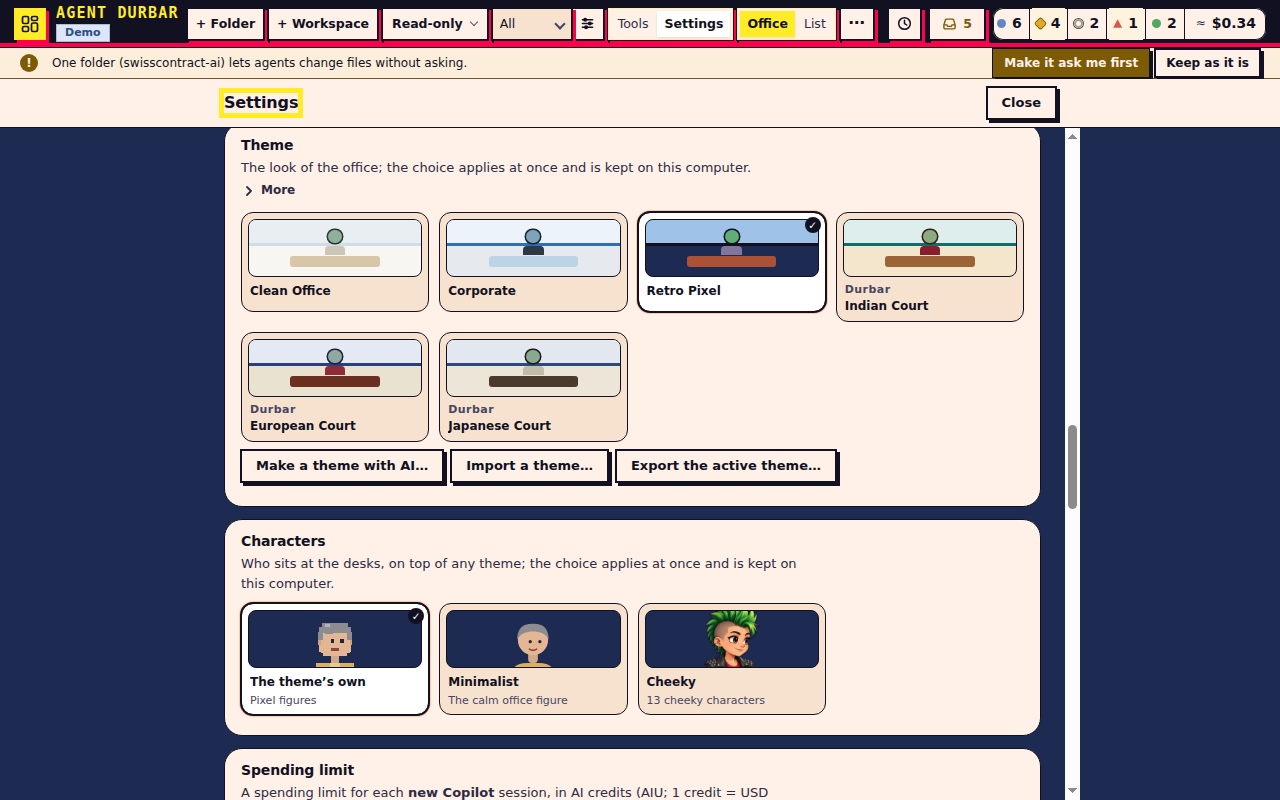
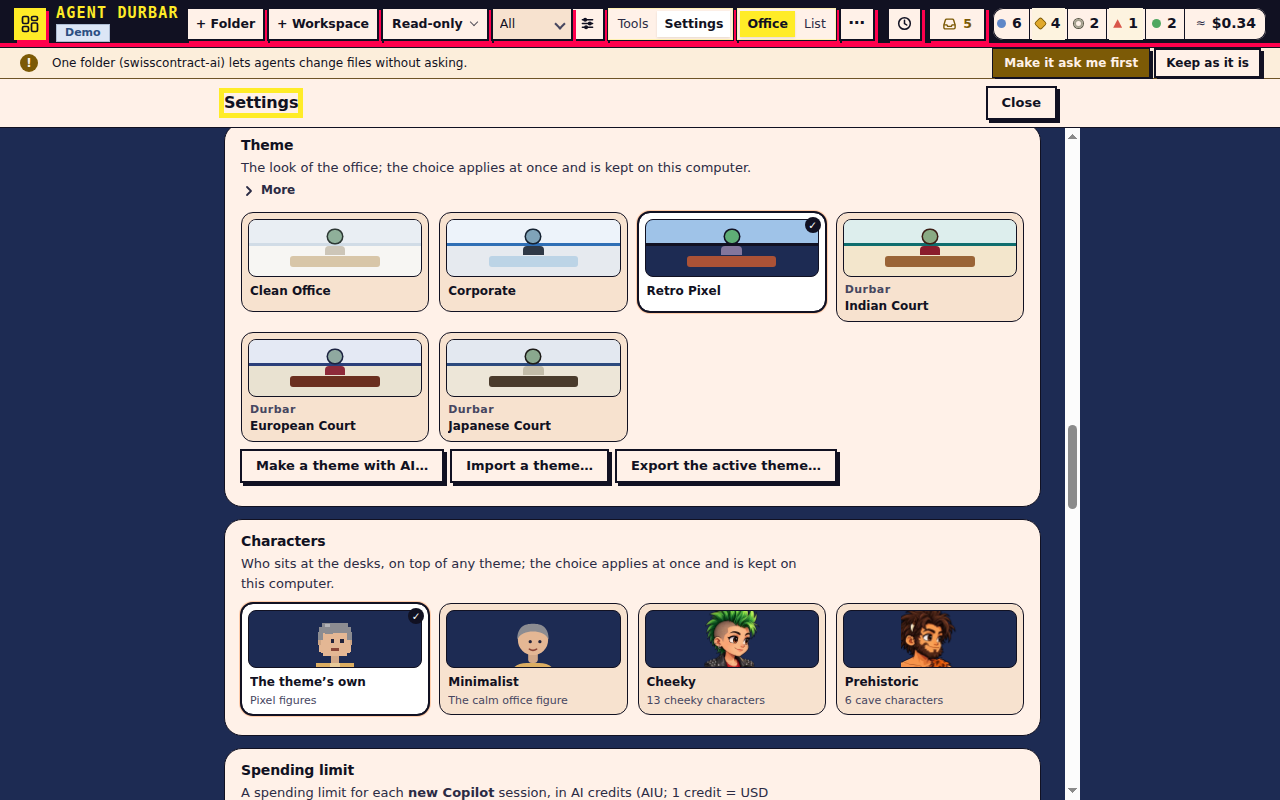
077 FR-072: check-crew and check-characters cover the Prehistoric Crew; README, agent notes and retaken Settings screenshots

Changed region(s): [[0.6562, 0.75, 0.8125, 0.9062]]

diff --git a/scripts/check-crew.js b/scripts/check-crew.js
@@ -13,8 +13,13 @@
  * Then FR-055: a copy of dist/ with one picture removed. The desks of that character draw the plain figure (no <image>), the others
  * keep their pictures, and nothing is broken.
  *
+ * Spec 077 FR-072 (issue #815): the same checks run for the Prehistoric crew (Characters = Prehistoric) with its 6 characters: the desks, poses,
+ * sharpness, faces, glow, idle, the bed slot at both sizes and the missing-picture fallback. The steps that do not depend on the crew (the
+ * review fixes of PR 621, the missing module) run once, with Cheeky.
+ *
  *   npm run check:ui -- --only check-crew            (builds first)
  *   CREW_THEME=<theme id>         the theme under the crew (default clean-office)
+ *   CREW_CHARS=<cheeky|prehistoric>  run one crew only (default: both)
  *   SHOTS_OUT=<folder>            screenshots (default: crew-shots in the OS temp folder)
  */
 const fs = require('fs');
@@ -25,7 +30,8 @@ const { helpers, jsLiteral } = require('./driver-helpers');
 
 /* spec 077 FR-064..FR-066: Cheeky is a Characters choice, picked on top of a theme */
 const THEME_ID = process.env.CREW_THEME || 'clean-office';
-const CHARS = 'cheeky';
+let CHARS = 'cheeky'; // the crew being checked (see RUNS)
+const RUNS = process.env.CREW_CHARS ? [[process.env.CREW_CHARS, true]] : [['cheeky', true], ['prehistoric', false]]; // [Characters value, whole check (the crew-independent steps too)]
 /* FR-014 zones in stage units: [x0, y0, x1, y1] */
 const ZONES = { 'monitor and halo': [101, 22, 187, 88], 'bubble and badge corner': [16, 3, 61, 34], 'cup zone': [96, 66, 114, 87] };
 /* FR-060: the screen's frame starts here; the portrait box ends here, so the status colour is never under it */
@@ -140,11 +146,12 @@ function glowZoom() {
 const naturals = (files) => `Promise.all(${jsLiteral(files)}.map(f=>new Promise(r=>{const i=new Image();i.onload=()=>r([f,i.naturalWidth,i.naturalHeight]);i.onerror=()=>r([f,0,0]);i.src=f;})))`;
 const hit = (a, b) => a[0] < b[2] && a[2] > b[0] && a[1] < b[3] && a[3] > b[1];
 
-module.exports = async (ctx) => {
+async function runCrew(ctx, full) {
   const H = helpers(ctx);
   const out = process.env.SHOTS_OUT || path.join(os.tmpdir(), 'crew-shots');
   fs.mkdirSync(out, { recursive: true });
   const C = require('../src/renderer/crew.js');
+  const CREW_IDS = C.idsFor(CHARS), PIC_RE = /crew\/art\/(?:prehistoric-)?([\w-]+)-(working|waiting|resting)\.webp/;
   /* one Settings pick: a theme (kind 'theme', #thList) or a Characters value (kind 'characters', #chList) */
   const pickIn = async (kind, id) => {
     const list = kind === 'theme' ? '#thList' : '#chList', sel = `${list} [data-${kind}="${id}"]`;
@@ -165,7 +172,7 @@ module.exports = async (ctx) => {
   const useCrew = async () => {
     if (await H.js(`window.THEME.current().id`) !== THEME_ID) await pick(THEME_ID);
     await pickChars(CHARS);
-    assert.strictEqual(await H.js(`window.THEME.sceneKit()`), 'crew', `${THEME_ID}: Characters = Cheeky draws the crew kit`);
+    assert.strictEqual(await H.js(`window.THEME.sceneKit()`), 'crew', `${THEME_ID}: Characters = ${CHARS} draws the crew kit`);
   };
   console.log(`[crew] theme ${THEME_ID}, characters ${CHARS}`);
 
@@ -175,7 +182,7 @@ module.exports = async (ctx) => {
     const uses = {};
     for (const f of list) {
       if (!f.href) continue; // the plain figure (fallback) has no picture
-      const m = /crew\/art\/([\w-]+)-(working|waiting|resting)\.webp/.exec(f.href);
+      const m = PIC_RE.exec(f.href);
       assert.ok(m, `${tag}: ${f.use}: a crew picture (${f.href})`);
       const [id, pose] = [m[1], m[2]];
       const fb = C.faceBox(id, pose); // stage units
@@ -217,7 +224,7 @@ module.exports = async (ctx) => {
     const seats = list.filter((f) => f.use === 'seat' && f.href).map((f) => ({ seat: [Math.round(f.clip[2] - f.clip[0]), Math.round(f.clip[3] - f.clip[1])], badge: (f.covers.find(([n]) => n === 'chat badge') || [, null])[1] }));
     console.log(`[crew] ${tag} seats`, JSON.stringify(seats.map((s) => ({ seat: s.seat, badge: s.badge && [Math.round(s.badge[2] - s.badge[0]), Math.round(s.badge[3] - s.badge[1])] }))));
   };
-  const sizes = async () => Object.fromEntries((await H.js(naturals(C.files()))).map(([f, w, h]) => [f, [w, h]]));
+  const sizes = async () => Object.fromEntries((await H.js(naturals(C.files(CREW_IDS)))).map(([f, w, h]) => [f, [w, h]]));
   const sharpOk = (tag, img, nat) => {
     assert.ok(nat && nat[0] > 0, `${tag}: ${img.href} loads`);
     assert.ok(nat[0] >= 2 * img.shown[0] - 0.5 && nat[1] >= 2 * img.shown[1] - 0.5, `${tag}: ${img.href} is shown at ${img.shown.map(Math.round)} px, natural ${nat} is not at least 2x (FR-051)`);
@@ -240,6 +247,7 @@ module.exports = async (ctx) => {
       assert.strictEqual(sc.images.length, 1, `${tag}: scene ${i} (${sc.st}) draws exactly one portrait`);
       const im = sc.images[0], id = (/\|crew\|([\w-]+)/.exec(sc.sig) || [])[1];
       seen.add(id);
+      assert.ok(CREW_IDS.includes(id), `${tag}: scene ${i} wears ${id}, a character of the ${CHARS} crew`);
       assert.strictEqual(im.href, C.file(id, C.poseFor(sc.st)), `${tag}: scene ${i} (${sc.st}) shows the ${C.poseFor(sc.st)} pose of ${id}`);
       assert.deepStrictEqual([im.x, im.y, im.w, im.h], [C.BOX.x, C.BOX.y, C.BOX.w, C.BOX.h], `${tag}: scene ${i}: the portrait's fixed box`);
       const box = [im.x, im.y, im.x + im.w, im.y + im.h];
@@ -248,7 +256,7 @@ module.exports = async (ctx) => {
       sharpOk(`${tag} scene ${i}`, im, nat[im.href]);
     }
     await faceChecks(tag);
-    assert.ok(seen.size === C.IDS.length, `${tag}: all ${C.IDS.length} characters on screen with 15 agents (least-used pick) (${[...seen]})`);
+    assert.ok(seen.size === CREW_IDS.length, `${tag}: all ${CREW_IDS.length} ${CHARS} characters on screen with 15 agents (least-used pick) (${[...seen]})`);
     for (const [kind, list] of [['walker', s.walkers], ['chip', s.chips], ['lounge figure', s.lounge]]) for (const [i, imgs] of list.entries()) {
       assert.strictEqual(imgs.length, 1, `${tag}: ${kind} ${i} draws the portrait`);
       sharpOk(`${tag} ${kind} ${i}`, imgs[0], nat[imgs[0].href]);
@@ -257,7 +265,7 @@ module.exports = async (ctx) => {
     console.log(`[crew] ${tag}`, JSON.stringify({ scenes: mains.length, characters: [...seen], walkers: s.walkers.length, chips: s.chips.length, lounge: s.lounge.length }));
     await H.clearToasts();
     await ctx.sleep(200);
-    await ctx.shot(path.join(out, `crew-office-${THEME_ID}-${tag}.png`));
+    await ctx.shot(path.join(out, `crew-office-${CHARS}-${THEME_ID}-${tag}.png`));
     // FR-061: an idle desk's portrait is full colour; its furniture keeps the dim
     const idle = await H.js(`(${idleOpacity.toString()})()`);
     assert.ok(idle.length >= 1, `${tag}: an idle desk or helper is on screen (${idle.length})`);
@@ -270,7 +278,7 @@ module.exports = async (ctx) => {
     const gz = await H.js(`(${glowZoom.toString()})()`);
     assert.ok(gz.length >= 1, `${tag}: a desk to measure the glow on`);
     for (const g of gz) {
-      const m = /crew\/art\/([\w-]+)-(working|waiting|resting)\.webp/.exec(g.href), fb = C.faceBox(m[1], m[2]), [vx, vy] = g.vb;
+      const m = PIC_RE.exec(g.href), fb = C.faceBox(m[1], m[2]), [vx, vy] = g.vb;
       const z = (p, o) => o + (p - o) * g.e, X = (u) => z(u, 74), Y = (u) => z(u, 99); // the zoom about the chair, in stage units
       const [u0, v0, u1, v1] = [X(fb[0]), Y(fb[1]), X(fb[0] + fb[2]), Y(fb[1] + fb[3])];
       const R = g.svg, sc = Math.min((R[2] - R[0]) / g.vb[2], (R[3] - R[1]) / g.vb[3]), ox = R[0] + ((R[2] - R[0]) - g.vb[2] * sc) / 2, oy = R[1] + ((R[3] - R[1]) - g.vb[3] * sc) / 2;
@@ -303,7 +311,7 @@ module.exports = async (ctx) => {
     const biggest = Math.max(...imgs.map((i) => i.shown[0]));
     console.log('[crew] 1920x1080 grown desks: largest shown width', Math.round(biggest), 'px, natural', C.BOX.w * C.PX_PER_UNIT);
     for (const im of imgs) sharpOk('1920x1080 grown', im, nat[im.href]);
-    await ctx.shot(path.join(out, 'crew-office-1920x1080-grown.png'));
+    await ctx.shot(path.join(out, `crew-office-${CHARS}-1920x1080-grown.png`));
   }
 
   // issue 871 (FR-071): a sleeping crew character in the bed slot reads like the couch seat, at both sizes. One agent on the couch and a lone sleeper.
@@ -322,7 +330,9 @@ module.exports = async (ctx) => {
     await H.js(`(()=>{for(const [id,min] of [['sim-2',2],['sim-3',30]]){window.__durbarSimUi.agents().find(x=>x.id===id).lastEventAt=Date.now()-min*60000;}window.__durbarSimUi.render();})()`);
     assert.ok(await H.until(`!!document.querySelector('#stage .lounge .desk.rest-old.crew-bed')&&!!document.querySelector('#stage .lounge .lg-av svg image')`, 6000), `${tag}: a crew sleeper is in a nap bed`);
     await H.settle();
-    const list = await H.js(`(${sleepers.toString()})()`);
+    // the lounge is laid out again for a moment after the sleepers appear (a fit pass; seen as a flake on Retro Pixel on main too): measure when two reads 300 ms apart agree
+    let list = await H.js(`(${sleepers.toString()})()`);
+    for (let i = 0; i < 20; i++) { await ctx.sleep(300); const next = await H.js(`(${sleepers.toString()})()`); const same = JSON.stringify(next) === JSON.stringify(list); list = next; if (same) break; }
     const lone = list.filter((x) => x.solo);
     assert.ok(lone.length >= 1, `${tag}: a lone sleeper (a bunk with one bed) is on screen (${list.length} sleepers)`);
     for (const x of lone) {
@@ -330,7 +340,7 @@ module.exports = async (ctx) => {
       assert.ok(x.crew && !x.lying && x.href, `${where}: drawn with the crew picture, upright (${JSON.stringify({ crew: x.crew, lying: x.lying, href: x.href })})`);
       assert.ok(inside(x.av, x.slot) && inside(x.slot, x.lounge), `${where}: the figure ${x.av.map(Math.round)} is inside its bed slot ${x.slot.map(Math.round)} and the lounge ${x.lounge.map(Math.round)}`);
       // the face is not cut: the face box of the picture, mapped to the screen, is inside the visible figure
-      const m = /crew\/art\/([\w-]+)-(working|waiting|resting)\.webp/.exec(x.href), fb = C.faceBox(m[1], m[2]), [vx, vy, vw, vh] = x.vb, R = x.svg;
+      const m = PIC_RE.exec(x.href), fb = C.faceBox(m[1], m[2]), [vx, vy, vw, vh] = x.vb, R = x.svg;
       const sc = Math.min((R[2] - R[0]) / vw, (R[3] - R[1]) / vh), ox = R[0] + ((R[2] - R[0]) - vw * sc) / 2, oy = R[1] + ((R[3] - R[1]) - vh * sc) / 2;
       const face = [ox + (fb[0] - vx) * sc, oy + (fb[1] - vy) * sc, ox + (fb[0] + fb[2] - vx) * sc, oy + (fb[1] + fb[3] - vy) * sc];
       assert.ok(inside(face, x.av), `${where}: the face box ${face.map(Math.round)} is inside the visible figure ${x.av.map(Math.round)} (not cut)`);
@@ -348,7 +358,7 @@ module.exports = async (ctx) => {
       console.log(`[crew] ${tag}`, JSON.stringify({ figure: x.av.map(Math.round), bed: x.bed.map(Math.round), name: x.name.map(Math.round) }));
     }
     await H.clearToasts();
-    await ctx.shot(path.join(out, `crew-bed-${THEME_ID}-${w}x${h}.png`));
+    await ctx.shot(path.join(out, `crew-bed-${CHARS}-${THEME_ID}-${w}x${h}.png`));
   }
 
   // FR-055: one picture removed from a copy of dist/: its character is drawn as the plain figure, the others keep their pictures
@@ -358,8 +368,8 @@ module.exports = async (ctx) => {
     try {
       fs.cpSync(path.join(__dirname, '..', 'dist'), path.join(tmp, 'dist'), { recursive: true });
       const index = path.join(tmp, 'dist', 'renderer', 'index.html');
-      const lost = 'punk';
-      fs.rmSync(path.join(tmp, 'dist', 'renderer', 'crew', 'art', `${lost}-waiting.webp`));
+      const lost = CREW_IDS[0];
+      fs.rmSync(path.join(tmp, 'dist', 'renderer', ...C.file(lost, 'waiting').split('/')));
       await H.load({ w: 1440, h: 900, index, query: { theme: THEME_ID, characters: CHARS }, ready: 'fit', settle: false });
       await H.office(15);
       assert.ok(await H.until(`window.THEME.current().id===${jsLiteral(THEME_ID)}&&window.THEME.sceneKit()==='crew'`, 4000), 'the theme and the crew are on');
@@ -373,12 +383,13 @@ module.exports = async (ctx) => {
       for (const sc of mains.filter((x) => !lostScenes.includes(x))) assert.strictEqual(sc.images.length, 1, 'the other characters keep their pictures');
       assert.ok(s.walkers.every((w) => w.length === 1 || w.length === 0), 'figures draw a picture or the plain figure');
       await H.clearToasts();
-      await ctx.shot(path.join(out, 'crew-fallback-1440x900.png'));
+      await ctx.shot(path.join(out, `crew-fallback-${CHARS}-1440x900.png`));
       console.log(`[crew] fallback: ${lostScenes.length} desk(s) of ${lost} drawn as the plain figure`);
     } finally {
       fs.rmSync(tmp, { recursive: true, force: true });
     }
   }
+  if (!full) { console.log(`[crew] ${CHARS}: crew steps passed`); return; }
   // PR 621 review: the characters of a closed session are freed (the main-session ids decide, the array keeps its identity), the last one too
   // the helpers' characters go with their parent; no stale id stays in the map (nor in durbar.crew where it is stored)
   {
@@ -458,6 +469,15 @@ module.exports = async (ctx) => {
     } finally {
       fs.rmSync(tmp, { recursive: true, force: true });
     }
+  }
+  console.log(`[crew] ${CHARS}: checks passed`);
+}
+
+module.exports = async (ctx) => {
+  for (const [chars, full] of RUNS) {
+    CHARS = chars;
+    assert.ok(require('../src/renderer/crew.js').CREWS[chars], `CREW_CHARS ${chars} is a crew`);
+    await runCrew(ctx, full);
   }
   console.log('[crew] checks passed');
   process.exitCode = 0;

diff --git a/scripts/check-characters.js b/scripts/check-characters.js
@@ -3,7 +3,7 @@
  *
  * At 1440x900 and 1280x800, on Retro Pixel and on Corporate (no built-in theme has a dark surface; Retro's floor is dark, so it stands in
  * for "one dark"), everything through Settings (the real path):
- *   - the Characters section is right after Theme, lists The theme's own, Minimalist and Cheeky, each with a preview figure, and names the
+ *   - the Characters section is right after Theme, lists The theme's own, Minimalist, Cheeky and Prehistoric, each with a preview figure, and names the
  *     theme's own figures; it fits the window (no page overflow);
  *   - Cheeky: every desk scene draws the crew kit with a portrait, the theme stays the one picked, the choice is announced;
  *   - a theme switch with Cheeky keeps the crew on the new theme;
@@ -72,18 +72,19 @@ module.exports = async (ctx) => {
     for (const [theme, kit, own] of THEMES) {
       const where = `${tag} ${theme}`;
       await pickTheme(theme);
-      // the section: after Theme, three choices with a preview each, the theme's own named
+      // the section: after Theme, four choices with a preview each, the theme's own named
       assert.ok(await H.until(`(document.querySelector('#chList [data-characters="theme"]')||{}).textContent&&document.querySelector('#chList [data-characters="theme"]').textContent.includes(${jsLiteral(own)})`, 4000), `${where}: The theme's own follows the theme (${own})`);
       const sc = await section();
       assert.ok(sc.afterTheme, `${where}: Characters comes right after Theme`);
-      assert.deepStrictEqual(sc.items.map((i) => i.id), ['theme', 'minimalist', 'cheeky'], `${where}: the three choices in order`);
-      assert.deepStrictEqual(sc.items.map((i) => i.pressed), ['true', 'false', 'false'], `${where}: the default is pressed`);
+      assert.deepStrictEqual(sc.items.map((i) => i.id), ['theme', 'minimalist', 'cheeky', 'prehistoric'], `${where}: the four choices in order`);
+      assert.deepStrictEqual(sc.items.map((i) => i.pressed), ['true', 'false', 'false', 'false'], `${where}: the default is pressed`);
       for (const i of sc.items) {
         assert.ok(i.svg, `${where}: ${i.id} has a preview figure`);
         assert.ok(i.minFont >= 10.5, `${where}: ${i.id}: text is at least 10.5px (${i.minFont})`);
         assert.ok(/^Characters /.test(i.label), `${where}: ${i.id} has a name (${i.label})`);
       }
       assert.ok(sc.items.find((i) => i.id === 'cheeky').pic, `${where}: the Cheeky preview is a portrait`);
+      assert.ok(sc.items.find((i) => i.id === 'prehistoric').pic, `${where}: the Prehistoric preview is a portrait (spec 077 FR-072)`);
       assert.ok(!sc.items.find((i) => i.id === 'minimalist').pic && !sc.items.find((i) => i.id === 'theme').pic, `${where}: the other previews are drawn figures`);
       if (kit === 'pixel') assert.strictEqual(sc.items.find((i) => i.id === 'theme').kit, 'crispEdges', `${where}: The theme's own preview is a pixel figure`);
       assert.ok(sc.pageX && sc.pageY, `${where}: Settings does not overflow the page`);
@@ -107,6 +108,12 @@ module.exports = async (ctx) => {
       assert.strictEqual(await H.js(`window.THEME.themeKit()`), kit, `${where}: the theme's own kit is unchanged`);
       await H.clearToasts();
       await H.shot(path.join(out, `077-characters-cheeky-${theme}-${tag}.png`), { prep: 'calm' }); // the pointer off the desks (no hover pencil), no toast
+      // Prehistoric on top of the theme (FR-072): the crew kit with a Prehistoric picture on every desk
+      await pickChars('prehistoric');
+      await close();
+      assert.ok(await H.until(`(()=>{const sc=[...document.querySelectorAll('#stage .desk[data-id] svg.scene')].filter(s=>s.getClientRects().length);return sc.length>=12&&sc.every(s=>/\\|crew(\\||$)/.test(s.dataset.sig||'')&&s.querySelector('image[href*="crew/art/prehistoric-"]'));})()`, 10000), `${where}: Prehistoric: every desk draws the crew kit with a Prehistoric portrait`);
+      assert.strictEqual(await H.js(`window.THEME.current().id`), theme, `${where}: the theme stays ${theme} under Prehistoric`);
+      assert.strictEqual(await H.js(`document.querySelectorAll('#stage image[href^="crew/art/"]:not([href*="prehistoric-"])').length`), 0, `${where}: no Cheeky picture under Prehistoric`);
       // Minimalist on top of the theme
       await pickChars('minimalist');
       await close();

diff --git a/scripts/check-office-overlap.js b/scripts/check-office-overlap.js
@@ -380,9 +380,9 @@ async function driver(ctx) {
      screen must be the one asked for, or the run fails (it once measured Clean Office for every theme). */
   const userTheme = process.env.OFFICE_USER_THEME ? JSON.parse(fs.readFileSync(process.env.OFFICE_USER_THEME, 'utf8')) : null;
   const wantTheme = userTheme ? userTheme.id : (process.env.OFFICE_THEME || '');
-  /* spec 077 FR-070: OFFICE_CHARACTERS=<value> (theme, minimalist, cheeky) puts who sits at the desks in the address too; checked like the theme */
-  const wantChars = /^(theme|minimalist|cheeky)$/.test(process.env.OFFICE_CHARACTERS || '') ? process.env.OFFICE_CHARACTERS : '';
-  if (process.env.OFFICE_CHARACTERS && !wantChars) throw new Error('OFFICE_CHARACTERS must be theme, minimalist or cheeky');
+  /* spec 077 FR-070: OFFICE_CHARACTERS=<value> (theme, minimalist, cheeky, prehistoric) puts who sits at the desks in the address too; checked like the theme */
+  const wantChars = /^(theme|minimalist|cheeky|prehistoric)$/.test(process.env.OFFICE_CHARACTERS || '') ? process.env.OFFICE_CHARACTERS : '';
+  if (process.env.OFFICE_CHARACTERS && !wantChars) throw new Error('OFFICE_CHARACTERS must be theme, minimalist, cheeky or prehistoric');
   const themeQuery = (wantTheme ? '&theme=' + encodeURIComponent(wantTheme) : '') + (userTheme ? '&usertheme=' + encodeURIComponent(JSON.stringify(userTheme)) : '') + (wantChars ? '&characters=' + wantChars : '');
   if (wantChars) console.log('check:office: characters ' + wantChars);
   let motionShown = false;

diff --git a/README.md b/README.md
@@ -295,7 +295,7 @@ Settings has two choices, both applied live without a restart: **Theme** (colour
 - **Corporate:** a navy bar, white rooms with an accent edge, square corners.
 - **Retro Pixel:** a dark arcade page with pixel characters at CRT desks.
 - **Durbar · Indian / European / Japanese:** three royal courts, each with its own frames, colours and court place names.
-- **Characters** (spec 077): **The theme's own** (the default: the calm office figure in Clean Office, suits in Corporate, pixel people in Retro Pixel, court figures in the three courts), **Minimalist** (the calm office figure on any theme) or **Cheeky** (experimental): a playful desk and 13 young, cheeky, office-safe characters. Each session gets one at random, among those the office uses least, kept per session; a picture shows it working, waiting or resting. If a picture is missing, the plain figure is drawn. Each choice has a small preview in Settings. Cheeky Crew used to be a theme: if you had it, Durbar switches you once to Clean Office with Characters = Cheeky (the characters stay; the warm background and desk colours were the old theme's). Checked on the simulator only.
+- **Characters** (spec 077): **The theme's own** (the default: the calm office figure in Clean Office, suits in Corporate, pixel people in Retro Pixel, court figures in the three courts), **Minimalist** (the calm office figure on any theme), **Cheeky** (experimental): a playful desk and 13 young, cheeky, office-safe characters, or **Prehistoric**: the same desk with 6 friendly cave people. Each session gets one at random, among those the office uses least, kept per session; a picture shows it working, waiting or resting. If a picture is missing, the plain figure is drawn. Each choice has a small preview in Settings. Cheeky Crew used to be a theme: if you had it, Durbar switches you once to Clean Office with Characters = Cheeky (the characters stay; the warm background and desk colours were the old theme's). Checked on the simulator only.
 - **Make a theme with AI:** describe a look ("a pirate ship at night"), or pick one of the ideas, and Claude Code, Codex or Copilot designs a light or dark theme: colours, a style, place names and art for the people and furniture. Durbar keeps only safe values, cleans the art like an imported pack, and checks that text stays readable; the AI gets up to 3 passes to fix what fails. Try it on the whole app before you save it. One theme costs about a cent on Claude (haiku); Copilot spends AI credits from your plan (shown with the result): about 0.25 AI credits per pass on a free plan, checked on 2026-10-20.
 - **Your own themes:** a folder with a `manifest.json` (colours, fonts, corner radii, shadows, the people's clothes and hair colours, a UI style and a scene kit from fixed lists, small SVG art including the desk's cup and laptop, place names), imported and exported in Settings. A theme is data only: no scripts and no CSS. Fonts are installed system fonts from an allow-list (a theme never downloads a font or loads a font file), sizes and spacing stay the app's so the office always fits, SVG art is rebuilt from allowed shapes, a value that is merely unusable falls back to the default and a text colour that would be hard to read is adjusted just enough (the theme stays light or dark), with a note in Settings, and a pack with markup or CSS in a value is refused with a message (spec 070).
 
@@ -394,7 +394,7 @@ Agent Durbar is spec-driven with [GitHub Spec Kit](https://github.com/github/spe
 
 Agent Durbar is by **Three Feathers**. Key contributors: [vikramgorla](https://github.com/vikramgorla), [fjcabello](https://github.com/fjcabello) and [rubenlupi](https://github.com/rubenlupi) (GitHub handles are used as the names). The names live in [`src/shared/about.ts`](src/shared/about.ts) and are shown in the OS About panel and in Settings > About.
 
-The Cheeky Crew pictures (`src/renderer/crew/art/`) were made with ChatGPT image generation from prompts written by Paco's agent, prompted by Paco, who also did the final pass; the tool, date and prompt of each are in [`ASSETS.md`](src/renderer/crew/art/ASSETS.md) (spec 077).
+The Cheeky and Prehistoric Crew pictures (`src/renderer/crew/art/`) were made with ChatGPT image generation from prompts written by Paco's agent, prompted by Paco, who also did the final pass; the tool, date and prompt of each are in [`ASSETS.md`](src/renderer/crew/art/ASSETS.md) (spec 077).
 
 The app id is `io.github.three-feathers.agentdurbar` since 2026-10-16. A build from before then is a separate app to the OS; uninstall it by hand. Saved data is kept.
 

diff --git a/docs/agent-notes.md b/docs/agent-notes.md
@@ -128,6 +128,7 @@ Each entry: **what** (bold), why, how to apply, evidence (`real:`, `read:`, `tes
 - **A shortcut clash check needs more than the app's keys**: macOS Control letters edit text, IBus owns Ctrl+Shift+U/E, and handlers match `e.key` or `e.code` (Dvorak). Refuse a recorded shortcut whose position or typed letter is taken (`clashOf` in `navigator.js`); `test-navigator.ts` scans `app.js` (#552).
 - **CSS subgrid rows count the row's padding inside the first and last tracks**: add it to those track sizes and measure the cell (#812, spec 001 FR-182).
 - **Scene pictures**: an `<image href>` with a relative path works under `img-src 'self'`; detect a broken one with `new Image()` + `decode()` and key it in `data-sig` (`check-crew.js`). Pillow `save(..., 'WEBP', exif=b'')` writes clean chunks (`test:crew-assets`) (spec 077).
+- **A new crew's `FACE` points do not move a couch seat's face**: the seat crop is anchored on the face point (62% across), so only the picture's own pixels decide whether the chat badge covers the face; if `check-crew` fails on a seat, look at the picture, not the point. Read new points with a 50 px grid and a red 110x140 box over the picture next to a Cheeky one (#815). The bed step of `check-crew` on Retro Pixel flaked on `main` (3 of 5 runs) until it measured when two reads 300 ms apart agree.
 
 ## Team chat
 
